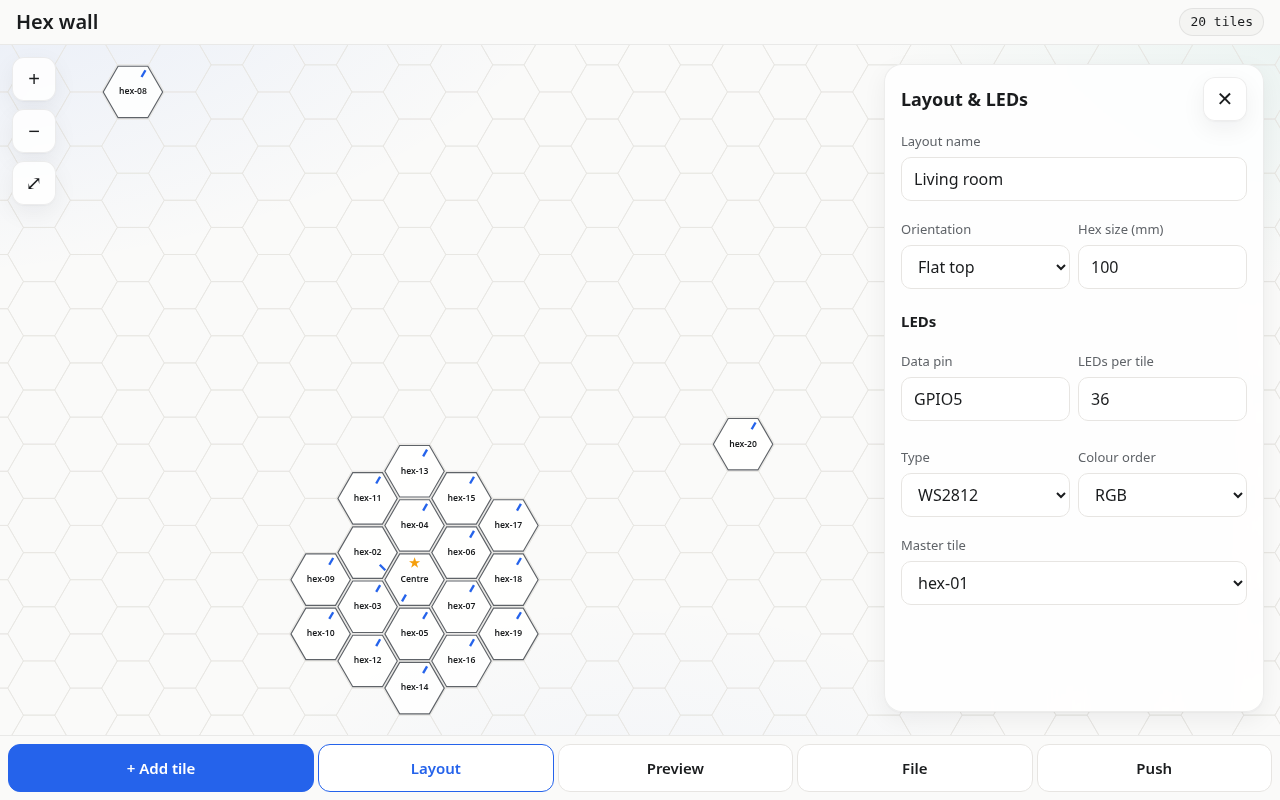
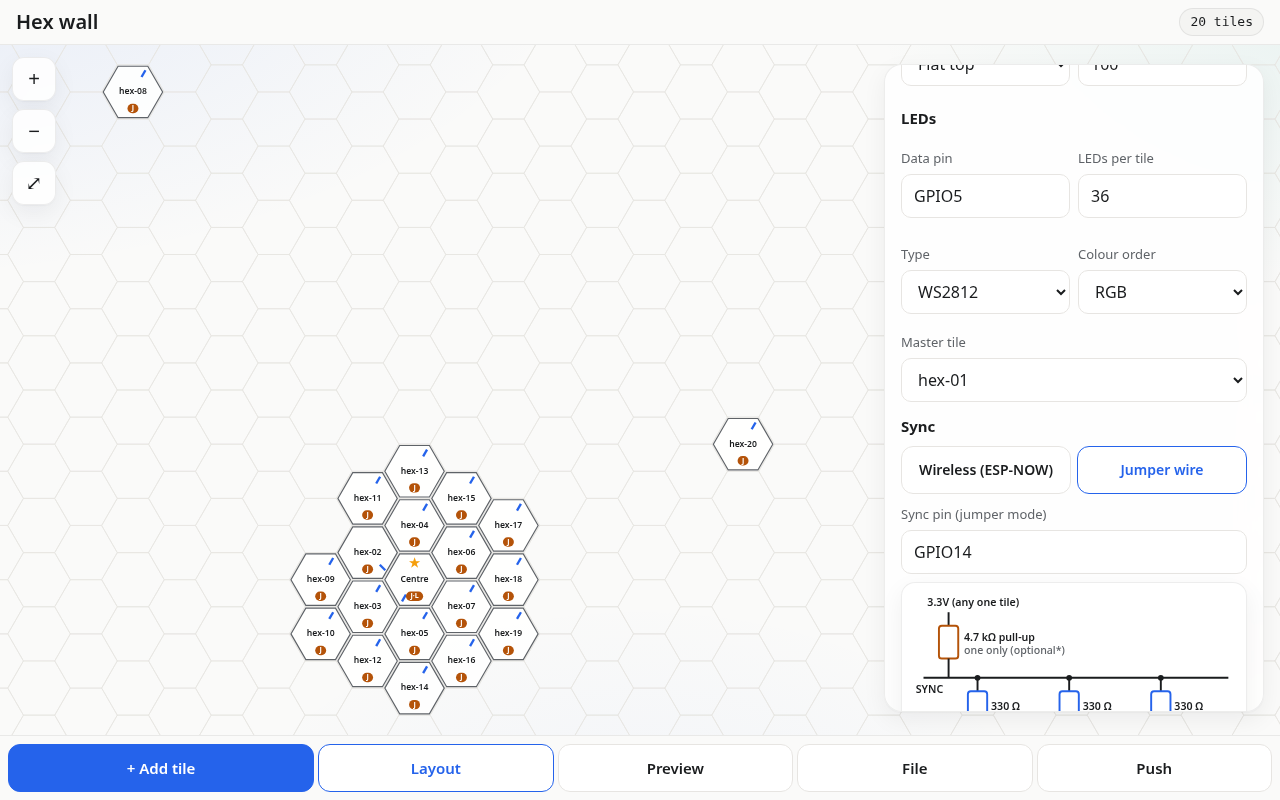
web: sync mode (Wireless/Jumper), sync_pin, jumper wiring diagram, expected sync-source badges
- Layout tab: Sync mode toggle stored as optional top-level sync {mode, pin} (omitted when wireless/GPIO12);
  gen_tiles.py tolerates it. sync_pin validated like the data pin (gen_tiles BAD_PINS) and flagged if = LED pin.
- Jumper wiring SVG per DESIGN.md: shared SYNC + GND, 330 ohm per tile, one 4.7k pull-up, sync_pin label.
- Per-tile expected sync source (espnow/jumper, leader = master) badge on grid + tile panel, live sensor named.
- Push YAML includes select.hex_c0_sync_mode option. No HA calls.
- test.js: 181 checks at 375 and 1280.

diff --git a/web/app.js b/web/app.js
@@ -67,11 +67,37 @@
       h += '<g class="hx' + (i === sel ? ' sel' : '') + (bad[i] ? ' bad' : '') + '" data-i="' + i + '"><path d="' + corners(p[0], p[1], R - 2) + '"' + fill + '/>' +
         '<line class="rotmark" x1="' + (p[0] + Math.cos(a) * R * 0.55).toFixed(1) + '" y1="' + (p[1] + Math.sin(a) * R * 0.55).toFixed(1) + '" x2="' + (p[0] + Math.cos(a) * R * 0.8).toFixed(1) + '" y2="' + (p[1] + Math.sin(a) * R * 0.8).toFixed(1) + '"/>' +
         dots + (D ? '' : '<text x="' + p[0] + '" y="' + p[1] + '">' + esc(lab.length > 9 ? lab.slice(0, 8) + '…' : lab) + '</text>') +
-        (i === mi ? '<text class="star" x="' + p[0] + '" y="' + (p[1] - R * 0.5) + '">★</text>' : '') + '</g>';
+        syncBadge(i, p) + (i === mi ? '<text class="star" x="' + p[0] + '" y="' + (p[1] - R * 0.5) + '">★</text>' : '') + '</g>';
     }
     gT.innerHTML = h;
     $('count').textContent = st.tiles.length + (st.tiles.length === 1 ? ' tile' : ' tiles');
     $('errs').hidden = !errs.length; $('errs').textContent = errs.length + ' issue' + (errs.length > 1 ? 's' : '');
+  }
+  /* expected sync source per DESIGN.md (live value only from sensor.hex_<id>_sync_source: espnow / jumper / jumper-lost).
+     Wireless -> espnow for every tile. Jumper -> jumper for every tile (the leader pulses the line and also reports jumper).
+     Leader expected = master (gen_tiles gives it leader_priority 1). */
+  function syncSrc(i) { var j = st.sync && st.sync.mode === 'jumper', lead = i === masterIdx();
+    return { src: j ? 'jumper' : 'espnow', color: j ? '#B45309' : '#2563EB', lead: lead,
+      why: j ? (lead ? 'leader: pulses the sync line every 100 ms' : 'follows the leader\'s pulses; falls back to espnow (jumper-lost) after >1 s without edges') : (lead ? 'leader: clock source over ESP-NOW' : 'clock from the leader over ESP-NOW') }; }
+  function nid(id) { id = String(id || ''); return /^([0-9a-f]{2}[:-]){5}[0-9a-f]{2}$/i.test(id) ? id.toLowerCase().replace(/[^0-9a-f]/g, '') : id.replace(/-/g, '_'); }
+  function syncBadge(i, p) { var s = syncSrc(i), tx = (s.src === 'jumper' ? 'J' : 'W') + (s.lead ? '·L' : ''), w = s.lead ? 22 : 14, x = p[0] - w / 2, y = p[1] + R * 0.38;
+    return '<g class="sb"><title>Sync source (expected): ' + s.src + '</title><rect x="' + x.toFixed(1) + '" y="' + y.toFixed(1) + '" width="' + w + '" height="12" rx="6" fill="' + s.color + '"/><text x="' + p[0].toFixed(1) + '" y="' + (y + 6).toFixed(1) + '">' + tx + '</text></g>'; }
+  /* jumper wiring per DESIGN.md "Sync mode": one shared line + GND, 330 R series at each tile, one 4.7 k pull-up to 3.3 V */
+  function wiring(pinName, n) {
+    var cols = [70, 165, 260], h = '<svg viewBox="0 0 340 250" role="img" aria-label="Jumper wire sync wiring">';
+    h += '<text x="18" y="16">3.3V (any one tile)</text><line class="ln" x1="40" y1="22" x2="40" y2="36"/>';
+    h += '<rect class="pu" x="30" y="36" width="20" height="34" rx="3"/><text x="56" y="52">4.7 kΩ pull-up</text><text class="mu" x="56" y="65">one only (optional*)</text>';
+    h += '<line class="ln" x1="40" y1="70" x2="40" y2="90"/><line class="ln" x1="14" y1="90" x2="330" y2="90"/><text x="6" y="106">SYNC</text>';
+    for (var k = 0; k < 3; k++) { var x = cols[k];
+      h += '<circle cx="' + x + '" cy="90" r="3" fill="currentColor"/><line class="ln" x1="' + x + '" y1="90" x2="' + x + '" y2="104"/>';
+      h += '<rect class="res" x="' + (x - 10) + '" y="104" width="20" height="30" rx="3"/><text x="' + (x + 14) + '" y="123">330 Ω</text>';
+      h += '<line class="ln" x1="' + x + '" y1="134" x2="' + x + '" y2="150"/><rect class="tile" x="' + (x - 34) + '" y="150" width="68" height="44" rx="8"/>';
+      h += '<text x="' + (x - 26) + '" y="168">' + esc(pinName) + '</text><text class="mu" x="' + (x - 26) + '" y="184">tile ' + (k + 1) + '</text>';
+      h += '<line class="gnd" x1="' + x + '" y1="194" x2="' + x + '" y2="214"/><text class="mu" x="' + (x + 4) + '" y="208">GND</text>'; }
+    h += '<text x="300" y="175">… ×' + Math.max(n, 1) + '</text><line class="gnd" x1="14" y1="214" x2="330" y2="214"/><text x="14" y="232">GND bus (LED power GND is fine)</text></svg>';
+    h += '<ul><li>Each tile: ' + esc(pinName) + ' → 330 Ω series resistor → shared SYNC line. Plus a shared GND.</li><li>One 4.7 kΩ pull-up to 3.3 V on one tile. *DESIGN.md: optional, internal ~45 kΩ pull-ups also work for short lines [EST].</li>' +
+      '<li>Twisted pair (sync + GND) or ribbon, kept short and away from the 5 V branch runs. Open-drain: tiles only pull low.</li><li>Then set <span class="mono">select.' + nodeName() + '_sync_mode</span> to "Jumper wire". sync_pin is a compile-time substitution (regenerate and flash to change it).</li></ul>';
+    return h;
   }
   function refresh() { render(); save(); syncPanels(); }
 
@@ -93,11 +119,15 @@
       setv($('tId'), t.id); setv($('tName'), t.name); setv($('tMac'), t.mac); setv($('tQ'), t.q); setv($('tR'), t.r); setv($('tDeg'), LF.rotDeg(t)); setv($('tOrd'), t.order == null || t.order === '' ? '' : t.order); $('tOrd').placeholder = 'default (' + sel + ')'; $('tOrdDef').disabled = t.order == null || t.order === ''; setv($('tLed'), t.ledCount); $('tLed').placeholder = 'default (' + st.led.count + ')'; $('tLedDef').disabled = t.ledCount === '';
       for (var i = 0; i < errs.length; i++) if (errs[i].tile === sel) e.push(errs[i].msg);
       $('tIdErr').textContent = e.join(' · ');
+      var ss = syncSrc(sel); $('tSync').innerHTML = '<span class="badge" style="background:' + ss.color + '">' + ss.src + '</span>expected · ' + esc(ss.why) + '. Live value: <span class="mono">sensor.hex_' + esc(nid(t.id)) + '_sync_source</span>';
       $('tPos').textContent = 'q ' + t.q + ', r ' + t.r + (t.id && t.id === st.master ? ' · master' : '');
       $('tMaster').textContent = t.id && t.id === st.master ? 'Is master ★' : 'Make master';
     } else if (cur === 'tile') show(null);
     if (cur === 'hw') hwSync();
     if (cur === 'layout') {
+      var sy = st.sync || (st.sync = { mode: 'wireless', pin: 'GPIO12' }), jm = sy.mode === 'jumper';
+      $('syW').className = 'btn' + (jm ? '' : ' on'); $('syJ').className = 'btn' + (jm ? ' on' : ''); $('syW').setAttribute('aria-checked', !jm); $('syJ').setAttribute('aria-checked', jm);
+      setv($('lSyncPin'), sy.pin); $('wireBox').hidden = !jm; if (jm) $('wireBox').innerHTML = wiring(LF.normPin(sy.pin || 'GPIO12'), st.tiles.length);
       setv($('lName'), st.name); $('lOri').value = st.hex.orientation; setv($('lSize'), st.hex.sizeMm); setv($('lPin'), st.led.pin); setv($('lCount'), st.led.count);
       opts($('lType'), LF.TYPES, st.led.type); opts($('lOrder'), LF.ORDERS, st.led.order);
       var m = [{ v: '', t: '— none —' }]; for (var j = 0; j < st.tiles.length; j++) if (st.tiles[j].id) m.push(st.tiles[j].id); opts($('lMaster'), m, st.master || '');
@@ -128,6 +158,9 @@
   bind('lCount', 'input', function () { st.led.count = parseInt(this.value, 10) || 0; refresh(); });
   bind('lType', 'change', function () { st.led.type = this.value; refresh(); });
   bind('lOrder', 'change', function () { st.led.order = this.value; refresh(); });
+  bind('syW', 'click', function () { st.sync.mode = 'wireless'; refresh(); });
+  bind('syJ', 'click', function () { st.sync.mode = 'jumper'; refresh(); });
+  bind('lSyncPin', 'input', function () { st.sync.pin = this.value.trim(); refresh(); });
   bind('lMaster', 'change', function () { st.master = this.value || null; refresh(); });
   bind('errs', 'click', function () { show('layout'); });
   bind('shClose', 'click', function () { sel = -1; show(null); render(); });
@@ -344,6 +377,7 @@
     $('hwErr').innerHTML = b.problems.map(function (p) { return '<li>' + esc(p) + '</li>'; }).join('') + (b.problems.length ? '<li><b>Fix these first: one bad entry makes the tile reject the whole string.</b></li>' : '');
     $('hwBulk').value = b.problems.length ? '' : b.bulk; $('hwCopy').disabled = !!b.problems.length; $('hwCopyYaml').disabled = !!b.problems.length;
     $('hwYaml').value = b.problems.length ? '' : '# Bulk (all tiles)\naction: esphome.' + nn + '_set_layout_bulk\ndata:\n  layout: "' + b.bulk + '"\n\n# Per tile (resend one that did not ack)\n' +
+      '# Sync mode (DESIGN.md: master-only select; sync_pin ' + LF.normPin(st.sync.pin || 'GPIO12') + ' is a compile-time substitution)\naction: select.select_option\ntarget:\n  entity_id: select.' + nn + '_sync_mode\ndata:\n  option: "' + (st.sync.mode === 'jumper' ? 'Jumper wire' : 'Wireless (ESP-NOW)') + '"\n\n' +
       b.entries.map(function (e) { return '# ' + e.id + '\naction: esphome.' + nn + '_set_tile_layout\ndata: {tile_id: ' + e.tile_id + ', q: ' + e.q + ', r: ' + e.r + ', rotation: ' + e.rotation + ', order: ' + e.order + '}'; }).join('\n---\n');
     $('hwCsvBox').open = !csv; hwFxSync(); return b;
   }

diff --git a/web/test.js b/web/test.js
@@ -48,11 +48,27 @@ const OUT = __dirname + '/screenshots/'; const URL = 'http://localhost:8411/web/
     // layout panel
     await p.click('#tabLayout'); await p.fill('#lName', 'Living room'); await p.fill('#lPin', '5'); await p.fill('#lCount', '36'); await p.selectOption('#lOrder', 'RGB');
     await p.screenshot({ path: OUT + 'layout-panel-' + w + '.png' });
+    // sync mode
+    ok(await p.evaluate(() => HexApp.state().sync.mode) === 'wireless' && await p.isHidden('#wireBox') && !(await p.evaluate(() => 'sync' in JSON.parse(LayoutFormat.serialize(HexApp.state())))), w + ' sync default wireless, not exported');
+    ok(await p.$$eval('.hx .sb text', t => t.length === 20 && t.filter(x => x.textContent.startsWith('W')).length === 20 && t.filter(x => x.textContent.endsWith('·L')).length === 1), w + ' 20 W badges, 1 leader');
+    await p.click('#syJ');
+    ok(await p.isVisible('#wireBox'), w + ' wiring panel shown in jumper mode');
+    const wt = await p.textContent('#wireBox'); ok(wt.includes('330 Ω') && wt.includes('4.7 kΩ') && wt.includes('GPIO12') && wt.includes('×20'), w + ' diagram: 330 Ω, 4.7 kΩ, GPIO12');
+    const wb = await p.$eval('#wireBox svg', e => e.getBoundingClientRect()); ok(wb.right <= w && wb.width > 200, w + ' diagram fits (' + Math.round(wb.width) + 'px)');
+    ok(await p.$$eval('.hx .sb text', t => t.every(x => x.textContent.startsWith('J'))), w + ' badges show J');
+    await p.fill('#lSyncPin', 'GPIO5'); ok((await p.textContent('#errList')).includes('Sync pin must not be the LED data pin'), w + ' sync pin == data pin flagged');
+    await p.fill('#lSyncPin', 'GPIO0'); ok((await p.textContent('#errList')).includes('strapping'), w + ' sync pin strapping flagged');
+    await p.fill('#lSyncPin', 'pin12'); ok((await p.textContent('#errList')).includes('Sync pin must look like GPIO<n>'), w + ' sync pin format flagged');
+    await p.fill('#lSyncPin', 'GPIO14'); ok((await p.textContent('#wireBox')).includes('GPIO14') && !(await p.textContent('#errList')).includes('Sync pin'), w + ' diagram follows sync_pin');
+    await p.screenshot({ path: OUT + 'sync-jumper-' + w + '.png' });
+    await p.locator('#wireBox').screenshot({ path: OUT + 'wiring-' + w + '.png' });
+    ok(await p.evaluate(() => document.documentElement.scrollWidth <= innerWidth), w + ' no sideways scroll with diagram');
+    const so = JSON.parse(await p.evaluate(() => LayoutFormat.serialize(HexApp.state()))).sync; ok(so && so.mode === 'jumper' && so.pin === 'GPIO14', w + ' sync exported ' + JSON.stringify(so));
     // export
     await p.click('#tabFile'); const [dl] = await Promise.all([p.waitForEvent('download'), p.click('#exp')]);
     const file = OUT + '../layout-export-' + w + '.json'; await dl.saveAs(file); const exp = fs.readFileSync(file, 'utf8'); const o = JSON.parse(exp);
     ok(o.version === 1 && o.tiles.length === 20 && o.master === 'hex-01' && o.led.pin === 'GPIO5' && o.led.order === 'RGB' && o.tiles[0].ledCount === 42 && o.tiles[0].mac && o.tiles[0].rot === 3 && !('rotationDeg' in o.tiles[0]) && o.tiles[1].rot === 2 && o.tiles[1].rotationDeg === 105 && o.tiles[1].order === 7 && !('order' in o.tiles[2]), w + ' export content (rot/rotationDeg/order)');
-    ok(JSON.stringify(Object.keys(o)) === '["version","name","hex","led","master","tiles"]' && !('x' in o.tiles[0]) && !('ring' in o.tiles[0]), w + ' export has no derived fields');
+    ok(JSON.stringify(Object.keys(o)) === '["version","name","hex","led","master","tiles","sync"]' && !('x' in o.tiles[0]) && !('ring' in o.tiles[0]), w + ' export has no derived fields');
     // reimport after clearing
     await p.evaluate(() => { localStorage.clear(); }); await p.reload();
     ok(await p.textContent('#count') === '0 tiles', w + ' cleared');
@@ -112,6 +128,11 @@ const OUT = __dirname + '/screenshots/'; const URL = 'http://localhost:8411/web/
     ok(mm.length === 0 && mine.length === ref.length, 'derived fields match out/layout.json');
     const src = JSON.parse(fs.readFileSync('/workspace/hex-lights/layout.json', 'utf8')), back = JSON.parse(await p.evaluate(() => LayoutFormat.serialize(HexApp.state())));
     ok(JSON.stringify(back) === JSON.stringify(src), 'Back End layout.json round-trips unchanged');
+    await p.evaluate(() => { const s = HexApp.state(); s.sync = { mode: 'jumper', pin: 'GPIO12' }; });
+    await p.locator('.hx').first().click(); ok((await p.textContent('#tSync')).includes('jumper') && (await p.textContent('#tSync')).includes('expected') && (await p.textContent('#tSync')).includes('sensor.hex_c0_sync_source'), 'tile panel: expected jumper + live sensor name');
+    await p.click('#tabHw'); { const y = await p.inputValue('#hwYaml'); ok(y.includes('option: "Jumper wire"'), 'push YAML sync mode follows layout (Jumper wire)'); } await p.click('#tabHw');
+    const rj = await p.evaluate(() => LayoutFormat.parse(LayoutFormat.serialize(HexApp.state())).layout.sync); ok(rj.mode === 'jumper' && rj.pin === 'GPIO12', 'sync round-trips via parse');
+    await p.evaluate(() => { HexApp.state().sync = { mode: 'wireless', pin: 'GPIO12' }; }); await p.click('#tabFile');
     const imp = JSON.parse(JSON.stringify(src)); imp.led.count = 60; imp.tiles[1].ledCount = 12;
     await p.evaluate(t => { document.getElementById('json').value = t; }, JSON.stringify(imp)); await p.click('#loadTxt');
     const dd = await p.evaluate(() => [HexApp.state().led.count, HexApp.derived().map(t => t.leds)]);
@@ -155,6 +176,7 @@ const OUT = __dirname + '/screenshots/'; const URL = 'http://localhost:8411/web/
     await p.click('#tabHw'); await p.waitForTimeout(300);
     const exp = fs.readFileSync('/workspace/hex-lights/esphome/layout_bulk.txt', 'utf8').trim();
     await p.evaluate(t => { document.getElementById('json').value = t; }, fs.readFileSync('/workspace/hex-lights/layout.json', 'utf8')); await p.click('#tabFile'); await p.click('#loadTxt'); await p.click('#tabHw');
+    { const y0 = await p.inputValue('#hwYaml'); ok(y0.includes('entity_id: select.hex_c0_sync_mode') && y0.includes('option: "Wireless (ESP-NOW)"'), 'push YAML has sync mode (wireless)'); }
     const bulk = await p.inputValue('#hwBulk'); ok(bulk === exp, 'bulk string == esphome/layout_bulk.txt (' + bulk.length + ' chars)');
     const yaml = await p.inputValue('#hwYaml'); ok(yaml.includes('action: esphome.hex_c0_set_layout_bulk') && yaml.includes('action: esphome.hex_c0_set_tile_layout\ndata: {tile_id: 20, q: 3, r: -1, rotation: 0, order: 19}') && !(await p.isDisabled('#hwCopy')), 'YAML snippets + copy enabled');
     await p.click('#hwCopy'); ok((await p.textContent('#hwMsg')).includes('copied'), 'copy bulk');

diff --git a/web/layout-format.js b/web/layout-format.js
@@ -4,12 +4,12 @@
   var TYPES = ['WS2812'], ORDERS = ['GRB', 'RGB', 'BRG', 'RBG', 'GBR', 'BGR'];
   function defaults() {
     return { version: 1, name: 'Hex wall', hex: { orientation: 'pointy', sizeMm: 100 },
-      led: { pin: 'GPIO13', type: 'WS2812', order: 'GRB', count: 44 }, master: null, tiles: [] };
+      led: { pin: 'GPIO13', type: 'WS2812', order: 'GRB', count: 44 }, master: null, tiles: [], sync: { mode: 'wireless', pin: 'GPIO12' } };
   }
   function pin(v) { if (typeof v === 'number' || /^\d+$/.test(str(v))) return 'GPIO' + parseInt(v, 10); return str(v).toUpperCase(); }
   function extras(src, known) { var o = {}; for (var k in src) if (src.hasOwnProperty(k) && known.indexOf(k) < 0) o[k] = src[k]; return o; }
   function merge(o, x) { for (var k in x) if (x.hasOwnProperty(k) && !(k in o)) o[k] = x[k]; return o; }
-  var TOP = ['version', 'name', 'hex', 'led', 'master', 'tiles'], LEDK = ['pin', 'type', 'order', 'count'], TK = ['id', 'name', 'mac', 'q', 'r', 'rot', 'ledCount', 'rotationDeg', 'order'],
+  var TOP = ['version', 'name', 'hex', 'led', 'master', 'tiles', 'sync'], LEDK = ['pin', 'type', 'order', 'count'], TK = ['id', 'name', 'mac', 'q', 'r', 'rot', 'ledCount', 'rotationDeg', 'order'],
     DERIVED = ['s', 'ring', 'x', 'y', 'angle', 'index', 'isMaster', 'leds', 'neighbors'];
   function int(v, d) { v = parseInt(v, 10); return isNaN(v) ? d : v; }
   function str(v) { return v == null ? '' : String(v).trim(); }
@@ -28,6 +28,9 @@
       if (t.order != null && t.order !== '') x.order = int(t.order, 0);
       o.tiles.push(merge(x, t._x || {}));
     }
+    /* optional top-level "sync": {mode:'wireless'|'jumper', pin:'GPIO<n>'}; omitted when default (wireless, GPIO12) */
+    var sy = s.sync || {}, sm = sy.mode === 'jumper' ? 'jumper' : 'wireless', sp = pin(sy.pin || 'GPIO12');
+    if (sm !== 'wireless' || sp !== 'GPIO12') o.sync = merge({ mode: sm, pin: sp }, sy._x || {});
     return merge(o, s._x || {});
   }
   function serialize(s) { return JSON.stringify(toObject(s), null, 2); }
@@ -40,7 +43,8 @@
     var s = { version: 1, name: str(o.name || d.name),
       hex: { orientation: h.orientation === 'flat' ? 'flat' : 'pointy', sizeMm: Number(h.sizeMm) || d.hex.sizeMm },
       led: { pin: l.pin == null ? d.led.pin : pin(l.pin), type: l.type || d.led.type, order: l.order || d.led.order, count: int(l.count, d.led.count), _x: extras(l, LEDK) },
-      master: o.master == null ? null : String(o.master), tiles: [], _x: extras(o, TOP) };
+      master: o.master == null ? null : String(o.master), tiles: [], _x: extras(o, TOP),
+      sync: { mode: o.sync && o.sync.mode === 'jumper' ? 'jumper' : 'wireless', pin: o.sync && o.sync.pin != null ? pin(o.sync.pin) : 'GPIO12', _x: extras(o.sync || {}, ['mode', 'pin']) } };
     var ts = o.tiles || [];
     for (var i = 0; i < ts.length; i++) {
       var t = ts[i];
@@ -54,6 +58,9 @@
   function rotDeg(t) { return t.rotDeg != null && t.rotDeg !== '' ? int(t.rotDeg, 0) : (int(t.rot, 0) % 6) * 60; }
   function order(t, i) { return t.order != null && t.order !== '' ? int(t.order, 0) : i; }
   function rotFromDeg(d) { return Math.round((((d % 360) + 360) % 360) / 60) % 6; }
+  /* same rule as tools/gen_tiles.py check_pin (S3 Super Mini) */
+  var BAD_PINS = { 0: 'strapping', 3: 'strapping', 45: 'strapping', 46: 'strapping', 19: 'USB', 20: 'USB', 48: 'onboard RGB LED' };
+  function pinErr(v, what) { var m = /^GPIO(\d+)$/.exec(pin(v)); if (!m) return what + ' must look like GPIO<n>'; var n = +m[1]; return BAD_PINS[n] ? what + ' GPIO' + n + ' is not allowed on the S3 Super Mini (' + BAD_PINS[n] + ')' : ''; }
   var MAXLED = 60; // firmware number.hex_<id>_led_count is 1..60
   var SLUG = /^[a-z0-9][a-z0-9_-]*$/, MAC = /^([0-9a-f]{2}[:-]){5}[0-9a-f]{2}$/i;
   /* errors: [{tile:index|null, field, msg}] */
@@ -81,10 +88,12 @@
     if (s.tiles.length && !s.master) e.push({ tile: null, field: 'master', msg: 'No master tile chosen' });
     else if (s.master && ids[s.master] == null) e.push({ tile: null, field: 'master', msg: 'Master "' + s.master + '" is not a tile ID' });
     if (!(s.led.count >= 1 && s.led.count <= MAXLED)) e.push({ tile: null, field: 'led', msg: 'LEDs per tile must be 1-' + MAXLED + ' (firmware limit)' });
-    if (!/^GPIO\d+$/.test(pin(s.led.pin))) e.push({ tile: null, field: 'led', msg: 'LED pin must look like GPIO<n>' });
+    var pe = pinErr(s.led.pin, 'LED data pin'); if (pe) e.push({ tile: null, field: 'led', msg: pe });
+    var sy = s.sync || {}, se = pinErr(sy.pin || 'GPIO12', 'Sync pin'); if (se) e.push({ tile: null, field: 'sync', msg: se });
+    else if (pin(sy.pin || 'GPIO12') === pin(s.led.pin)) e.push({ tile: null, field: 'sync', msg: 'Sync pin must not be the LED data pin (' + pin(s.led.pin) + ')' });
     if (TYPES.indexOf(s.led.type) < 0) e.push({ tile: null, field: 'led', msg: 'LED type must be WS2812' });
     if (ORDERS.indexOf(s.led.order) < 0) e.push({ tile: null, field: 'led', msg: 'Unknown colour order' });
     return e;
   }
-  g.LayoutFormat = { defaults: defaults, toObject: toObject, serialize: serialize, parse: parse, validate: validate, MAXLED: 60, rotDeg: rotDeg, order: order, rotFromDeg: rotFromDeg, TYPES: TYPES, ORDERS: ORDERS };
+  g.LayoutFormat = { defaults: defaults, toObject: toObject, serialize: serialize, parse: parse, validate: validate, pinErr: pinErr, normPin: pin, MAXLED: 60, rotDeg: rotDeg, order: order, rotFromDeg: rotFromDeg, TYPES: TYPES, ORDERS: ORDERS };
 })(this);

diff --git a/web/index.html b/web/index.html
@@ -26,6 +26,7 @@
  <div class="row2"><label>LED count<input id="tLed" type="number" min="1" max="60" step="1" inputmode="numeric" placeholder="default"></label></div>
  <button class="btn" id="tLedDef">Use default LED count</button>
  <p class="mu small" id="tPos"></p>
+ <p class="small" id="tSync"></p>
  <div class="row2"><button class="btn" id="tMaster">Make master</button><button class="btn danger" id="tDel">Delete</button></div>
 </div>
 <div id="pLayout" class="pane">
@@ -37,6 +38,10 @@
  <label>LEDs per tile<input id="lCount" type="number" min="1" max="60" inputmode="numeric"></label></div>
  <div class="row2"><label>Type<select id="lType"></select></label><label>Colour order<select id="lOrder"></select></label></div>
  <label>Master tile<select id="lMaster"></select></label>
+ <h3>Sync</h3>
+ <div class="seg" role="radiogroup" aria-label="Sync mode"><button type="button" class="btn" id="syW" role="radio">Wireless (ESP-NOW)</button><button type="button" class="btn" id="syJ" role="radio">Jumper wire</button></div>
+ <label>Sync pin (jumper mode)<input id="lSyncPin" placeholder="GPIO12" autocapitalize="characters"></label>
+ <div id="wireBox" class="wire" hidden></div>
  <ul id="errList" class="errlist"></ul>
 </div>
 <div id="pFx" class="pane">

diff --git a/web/app.css b/web/app.css
@@ -42,3 +42,11 @@ input[type=range]{padding:0}input[type=color]{padding:2px}textarea{font:13px/18p
 .hx .led{pointer-events:none}
 details summary{min-height:44px;display:flex;align-items:center;cursor:pointer}
 .btn:disabled{opacity:.5;cursor:not-allowed}
+.seg{display:grid;grid-template-columns:1fr 1fr;gap:6px;margin:8px 0}.seg .btn{font-size:14px;line-height:18px}
+.wire{margin:8px 0;padding:8px;border-radius:14px;background:var(--glass);border:1px solid var(--glass-bd);box-shadow:var(--gsh)}
+.wire svg{width:100%;height:auto;display:block}.wire svg text{font:600 11px system-ui;fill:var(--tx)}.wire svg .mu{fill:var(--mu);font-weight:500}
+.wire svg .ln{stroke:var(--tx);stroke-width:2;fill:none}.wire svg .gnd{stroke:var(--mu);stroke-width:2}.wire svg .res{fill:var(--sf);stroke:var(--pr);stroke-width:2}
+.wire svg .pu{fill:var(--sf);stroke:#B45309;stroke-width:2}.wire svg .tile{fill:var(--sf2);stroke:var(--bd);}
+.wire ul{margin:6px 0 0;padding-left:18px;font-size:13px;color:var(--mu)}
+.hx .sb{pointer-events:none}.hx .sb rect{stroke:none}.hx .sb text{font:700 9px system-ui;fill:#fff}
+.badge{display:inline-block;padding:2px 8px;border-radius:999px;font-size:12px;font-weight:600;color:#fff;margin-right:6px}

diff --git a/web/README.md b/web/README.md
@@ -69,3 +69,18 @@ rainbow_flow and the palettes.
 - Preview source **Firmware reference** uses `../esphome/tools/effects-ref.js` `frame(P, tiles, tMs, ledCount)`. Tiles get numeric
   ids from tiles.csv rows. It's called once with the largest led count, then sliced per tile. firmwareOnly effects (random_ripple,
   twinkle, color_cycle, snake) always preview through it.
+
+## Sync mode (DESIGN.md "Sync mode: Wireless (default) or Jumper wire", d3aeb8b)
+- **Storage:** DESIGN.md/layout.json define no key, so the editor uses an optional top-level
+  `"sync": {"mode": "wireless" | "jumper", "pin": "GPIO<n>"}`. It's written only when not the default (wireless, GPIO12), so Back End's
+  layout.json round-trips unchanged. gen_tiles.py `validate()` accepts it and `derive()` copies it through (checked). It does not yet
+  feed the `sync_pin` substitution. On the device the mode is the master's `select.hex_c0_sync_mode`
+  (`Wireless (ESP-NOW)` / `Jumper wire`) and sync_pin is a compile-time substitution (default GPIO12).
+- **Sync pin** uses the same rule as the data pin (`GPIO<n>`, not 0/3/45/46 strapping, 19/20 USB, 48 RGB LED, same as gen_tiles
+  `check_pin`), and is flagged if it equals the LED data pin.
+- **Wiring panel** (Layout tab, Jumper only): one shared SYNC line + GND bus, a 330 Ω series resistor at each tile, one 4.7 kΩ
+  pull-up to 3.3 V, pin = sync_pin. Matches DESIGN.md. Its only nuance: the 4.7 kΩ is "optional" (internal ~45 kΩ pull-ups for short lines [EST]).
+- **Sync source badge** (grid `W`/`J`, `·L` = expected leader; tile panel): *expected* value only. Wireless → `espnow`, Jumper →
+  `jumper` (the leader also reports `jumper`). The live value, including `jumper-lost`, comes from `sensor.hex_<id>_sync_source` in HA, which the editor doesn't read.
+  The expected leader is the master (gen_tiles gives it leader_priority 1); failover can move it.
+- **Push YAML** adds a `select.select_option` on `select.hex_c0_sync_mode`. Wall-fx YAML is unchanged (the mode isn't a set_wall_fx field).
